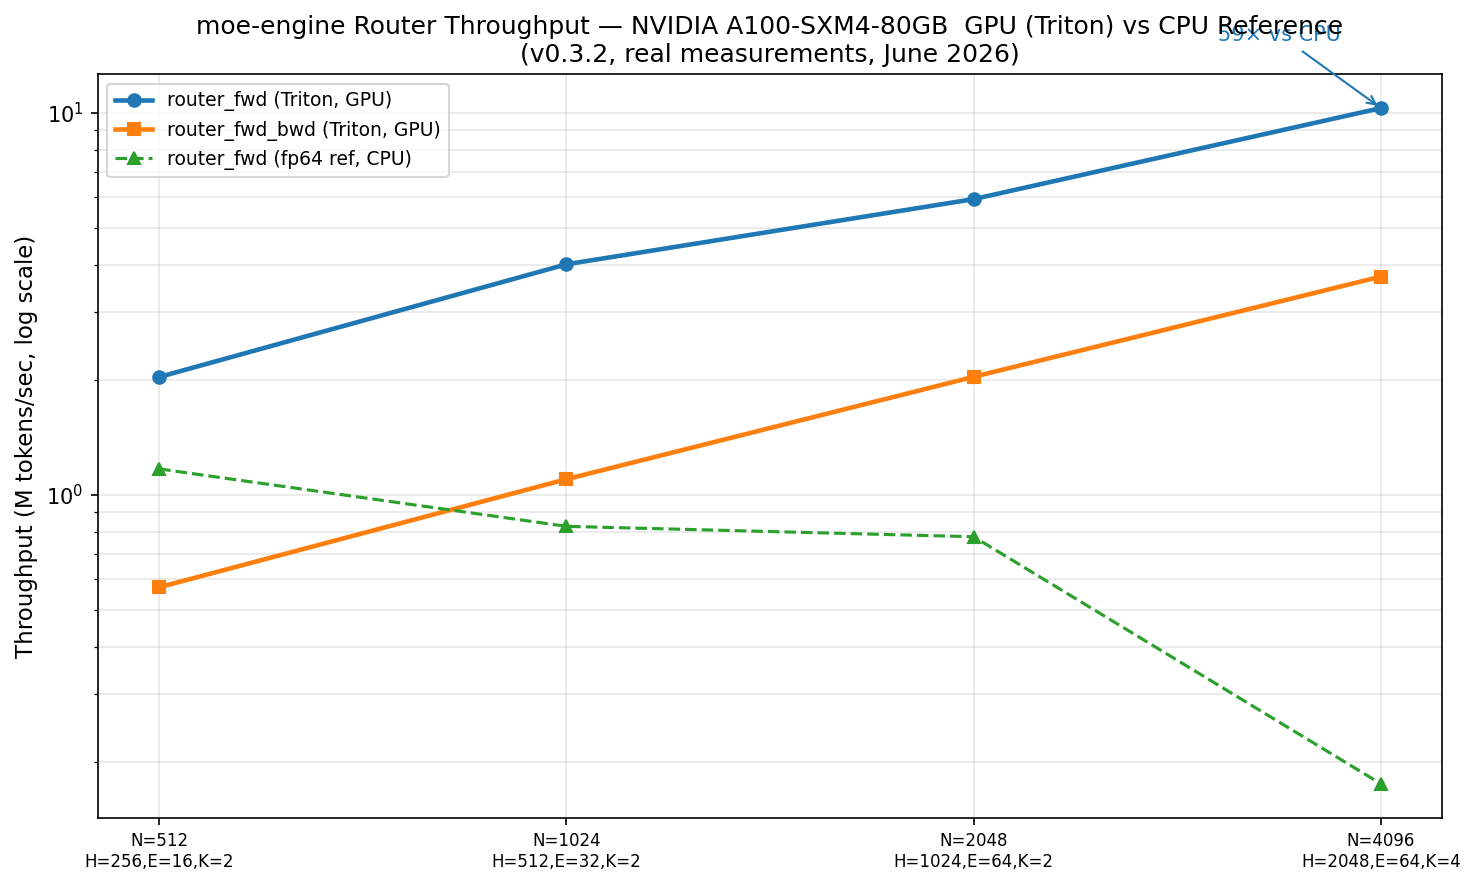
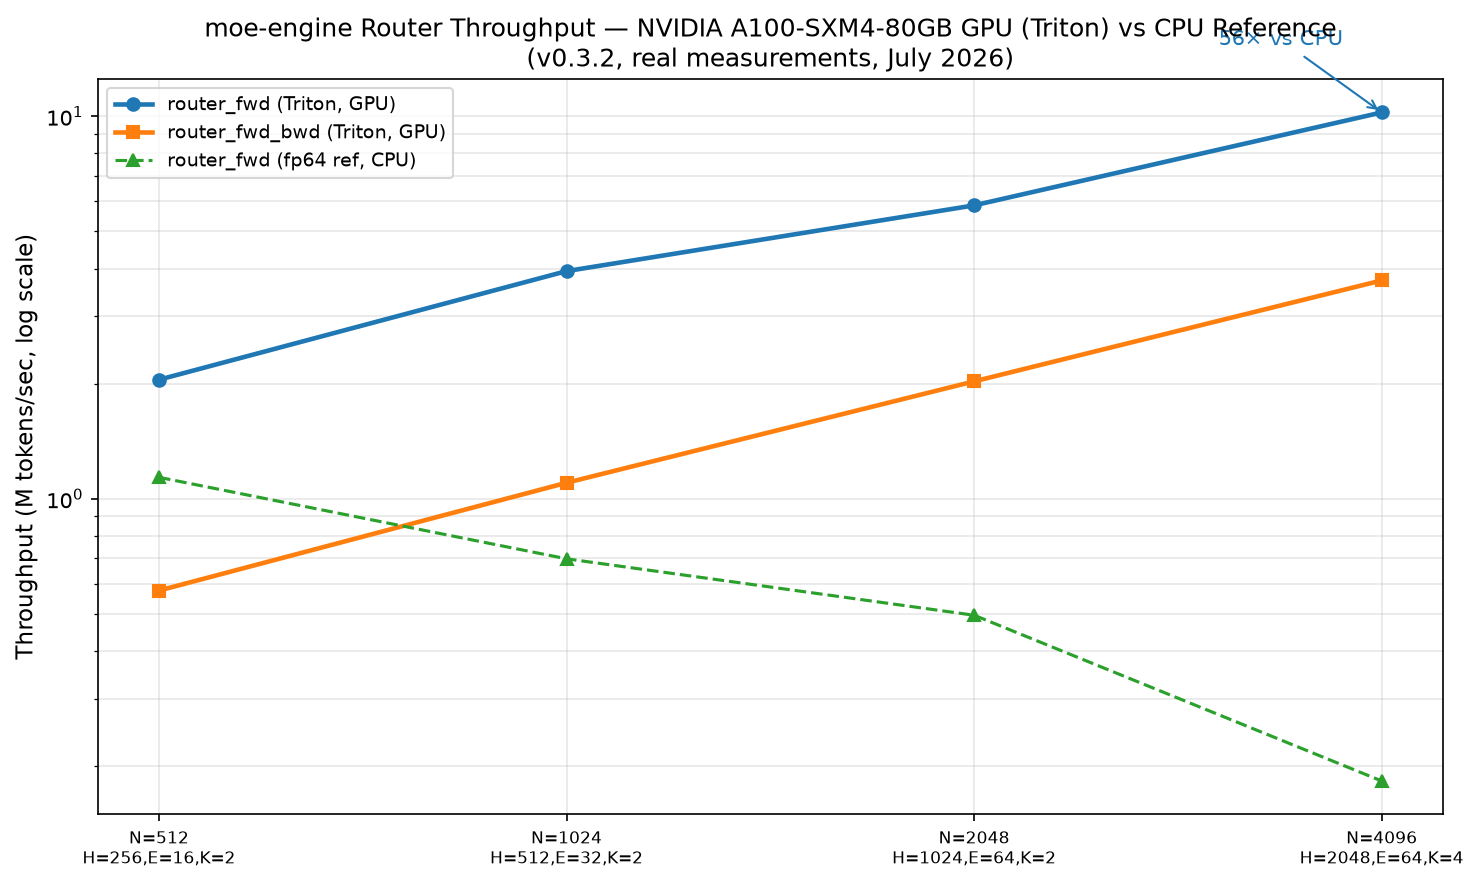
docs: replot the A100 chart from committed results
Replot router_throughput_A100.png from gpu_results_a100.json. The N=4096 forward callout is 56× versus the CPU reference path. The 10K-GPU note is a design target that has not been run.

diff --git a/moe-engine/tests/test_chaos.py b/moe-engine/tests/test_chaos.py
@@ -119,9 +119,9 @@ def _torchrun_session(
     ):
         full_env.pop(var, None)
     full_env.update(env)
-    # Enable fault-tolerant collectives in the worker for CI runs so
-    # transient Gloo connect failures are retried locally. This is a test-
-    # only mitigation and can be disabled by overriding the env var.
+    # Retry collectives in the worker for CI runs so transient Gloo
+    # connect failures are retried locally. This is a test-only mitigation
+    # and can be disabled by overriding the env var.
     full_env.setdefault("CHAOS_FAULT_TOLERANT", "1")
     full_env.setdefault("MASTER_ADDR", "127.0.0.1")
     full_env.setdefault("MASTER_PORT", str(_find_free_port()))

diff --git a/moe-engine/pkg/elastic/fault_monitor.py b/moe-engine/pkg/elastic/fault_monitor.py
@@ -17,8 +17,8 @@ Components
 * `ElasticTrainerHarness` – wires the above to TorchElastic so workers can
   be added or removed from the run without operator intervention.
 
-All of this is written to keep a 10K-GPU run alive when nodes inevitably
-die: at that scale you see a node drop every few minutes.
+Design target: keep a 10K-GPU run alive when nodes drop. At that scale a
+node drop every few minutes is expected. That scale has not been run.
 """
 
 from __future__ import annotations

diff --git a/CHANGELOG.md b/CHANGELOG.md
@@ -6,13 +6,15 @@ NCCL, or across multiple hosts unless it says so.
 
 ## Unreleased — Documentation
 
-Claim wording in the docs now matches what the repository shows. No new measurements were added. Code, benchmarks, workflows, Makefiles, and compose files were not changed.
+Claim wording in the docs now matches what the repository shows. No new measurements were added. Workflows, Makefiles, and compose files were not changed.
 
 - **Speedups.** On first mention, 80.1× (T4) and 56.0× (A100) are versus the CPU reference path. There is no GPU baseline comparison yet. The CPU baseline differs by host (0.056 M tok/s in the T4 table, 0.183 M tok/s in the A100 table). The 80.1× figure matches the unrounded `tokens_per_sec` ratio in `moe-engine/benchmarks/gpu_results_t4.json` (4,454,377 / 55,599). Dividing the rounded T4 cells (4.454 / 0.056) gives about 79.5×. The A100 router cells are the rounded `tokens_per_sec` values in `moe-engine/benchmarks/gpu_results_a100.json`: forward at N=4096 is 56.0× (CPU 0.183 M tok/s, GPU 10.240 M tok/s); forward+backward at that shape is 38.4×; the smaller forward rows are 1.80×, 5.65×, and 11.80×. T4 figures are unchanged.
 - **Not yet validated.** A superlinear speedup claim, a ~40% collective-cost reduction at EP=8, a ~2.7× lower memory-traffic claim, and a zero-cost telemetry claim are marked not yet validated where the living docs stated them as results. The speedup paragraph in `moe-engine/benchmarks/BENCHMARKS.md` says the table is versus the CPU reference path, with no GPU baseline comparison yet. The GPU badge is scoped to single-GPU router kernels (T4, A100). `configs/default.yaml` is a production-scale shape (H=4096, E=64, dp=8, ep=8) and has not been run.
 - **Chaos.** Scenario A is recorded as recovering in ~17 of 20 runs. Failures are attributed to a Gloo race in containers. Scenario B is recorded at 10/10 from a manual run. The Chaos job is `workflow_dispatch` only and does not run on push CI.
 - **CI.** The GPU, Docker, and Chaos jobs are `workflow_dispatch` only and were skipped on the latest push. Push CI is the CPU suite (Tier-0 416 passed, 3 skipped, 16 deselected, 1 xfailed; differential 243 passed, run 41009438945). mypy is `continue-on-error` and reported errors on that run.
 - **Validation scope.** Current validation is single-GPU (T4, A100) and 2-rank CPU. Multi-node and 8+ GPU runs remain open.
+- **A100 chart.** `moe-engine/benchmarks/router_throughput_A100.png` is replotted from `moe-engine/benchmarks/gpu_results_a100.json`. The N=4096 forward callout is 56× versus the CPU reference path. The subtitle dates the run July 2026. The JSON was not edited.
+- **Scale notes.** The 10K-GPU sentence in `moe-engine/pkg/elastic/fault_monitor.py` is a design target. That scale has not been run.
 - A preprint was previously deposited at 10.5281/zenodo.20688837 and is superseded by the current docs.
 
 ## Unreleased — M2: MoE semantics (October 2026)
